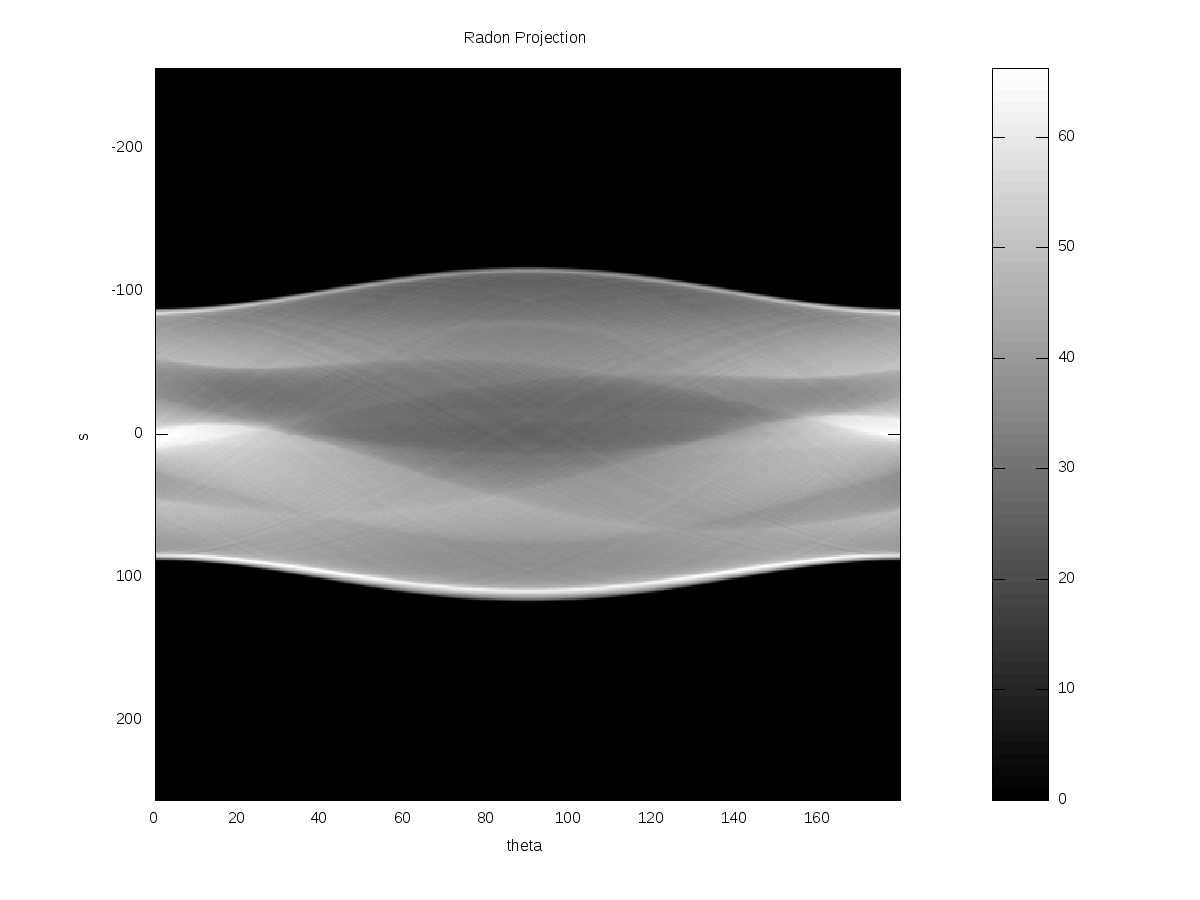
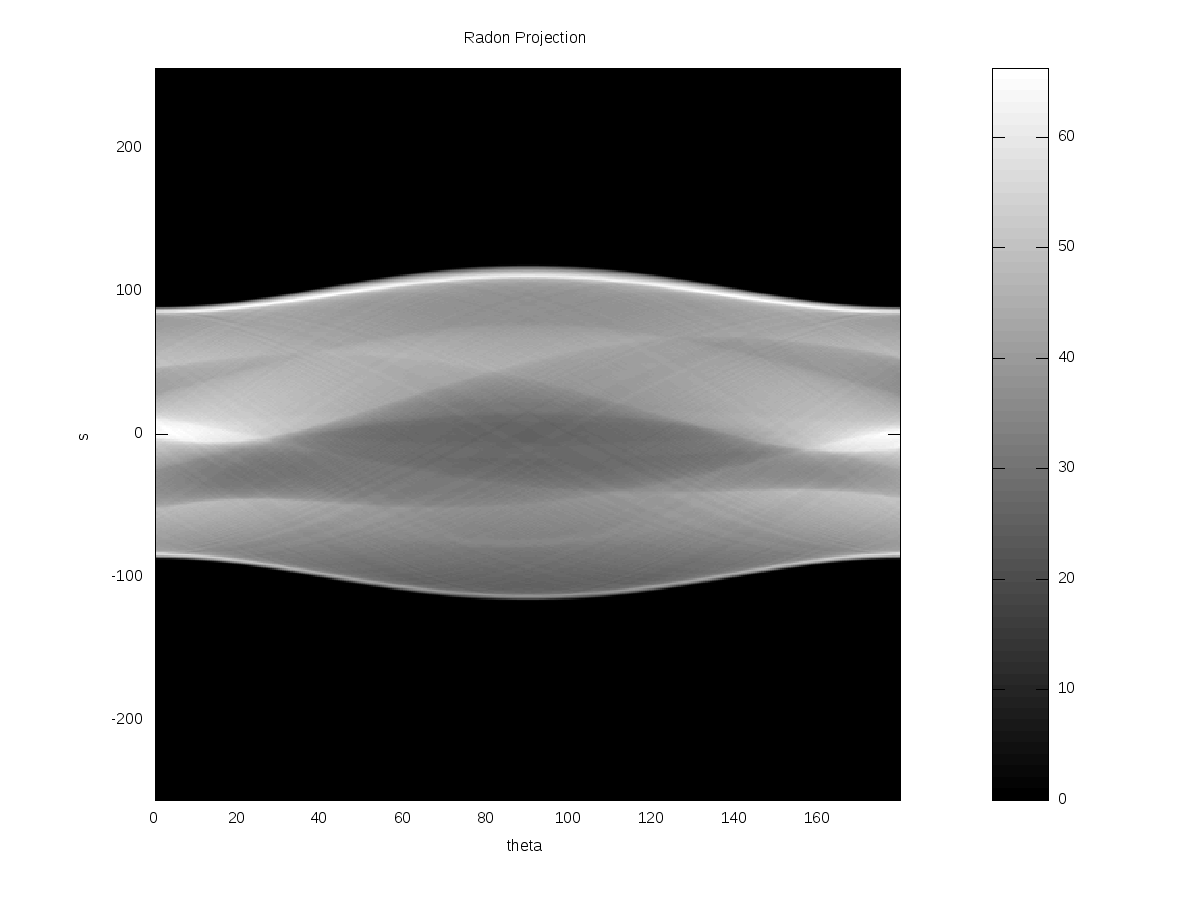
Make y-axis points upward in all image plots

diff --git a/trunk/save_image.m b/trunk/save_image.m
@@ -3,16 +3,18 @@
 % Save the gray-scale representation of the image.
 
 %! Save the gray-scale representation of the image.
-% @param X value of X in each column
-% @param Y value of Y in each row
+% @param x value of x in each column
+% @param x value of y in each row
 % @param Z matrix of the image
 % @param Title title of the graph
 % @param Xlabel label of the x-axis
 % @param Ylabel label of the y-axis
 
-function save_image(X,Y,Z,Title,Xlabel,Ylabel)
+function save_image(x,y,Z,Title,Xlabel,Ylabel)
 figure
-imagesc(X,Y,Z)
+imagesc(x,y,Z)
+% flip the y-axis to pointing upward
+set(gca,'YDir','normal')
 colormap(gray),colorbar
 title(Title)
 if(nargin > 2)

diff --git a/trunk/main.m b/trunk/main.m
@@ -34,7 +34,7 @@ d_theta = 180 / N_theta;
 THETA = linspace(0,180-d_theta,N_theta);
 
 % Workaround a bug in Matlab function RADON, which assumes the y-axis points downwards instead of pointing upward
-Phantom_flipy = flipdim(Phantom,1);
+Phantom_flipy = flipud(Phantom);
 Radon = radon(Phantom_flipy,THETA);		% Apply Radon transform.
 
 Radon = add_noise(Radon,SNR);		% Add noise to the image

diff --git a/trunk/make_phantom.m b/trunk/make_phantom.m
@@ -19,6 +19,7 @@ switch shape
   case {'Shepp-Logan','Modified Shepp-Logan'}
     % Modified Shepp-Logan' gives better visual perception than 'Shepp-Logan'
     P = phantom(shape,N);
+    P = flipud(P);
   case {'dot'}
     R=4;
     x=linspace(-N/2,N/2,N); y=x; [X, Y]=meshgrid(x,y); P=(X.^2 +Y.^2 <= R^2);
